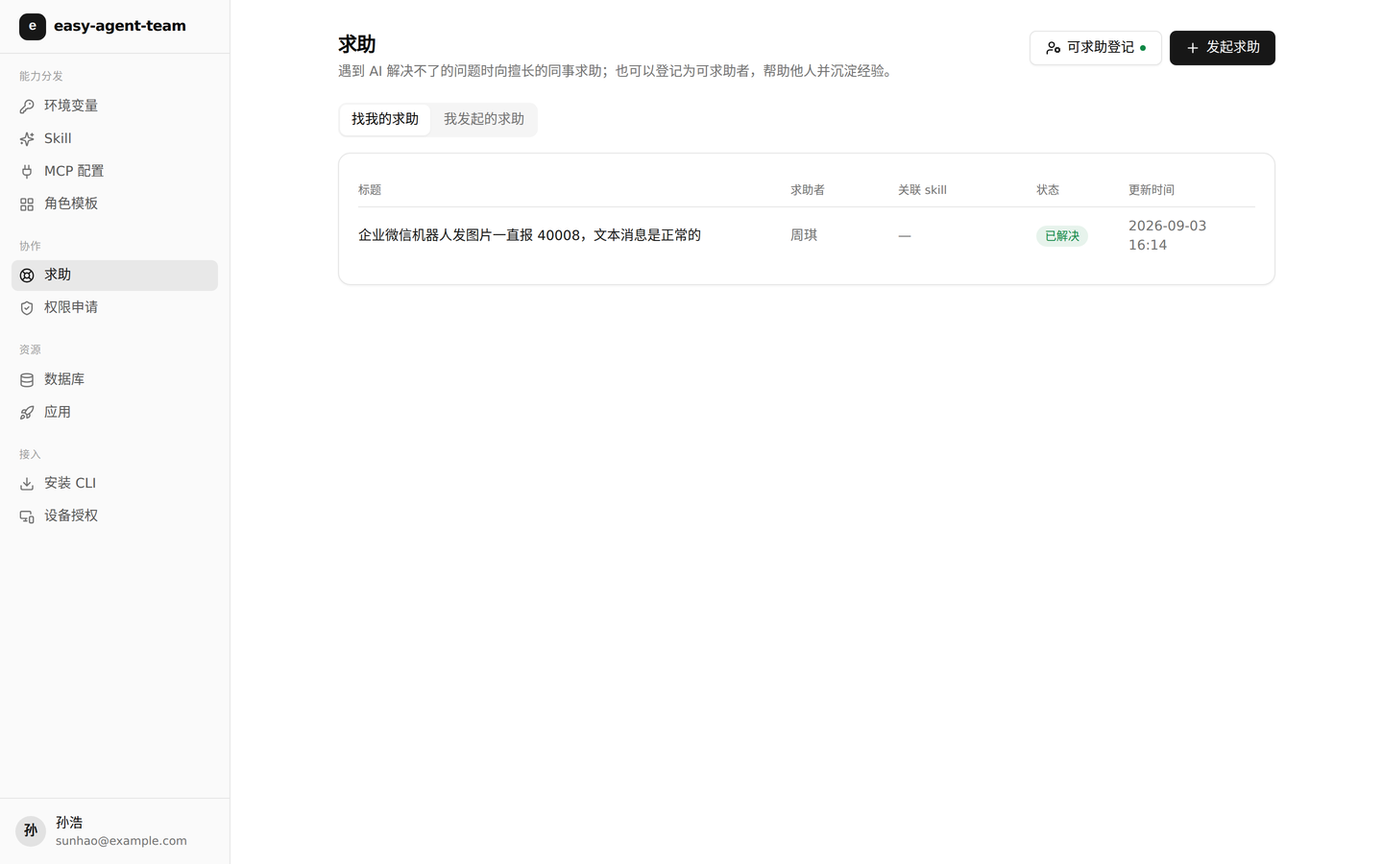
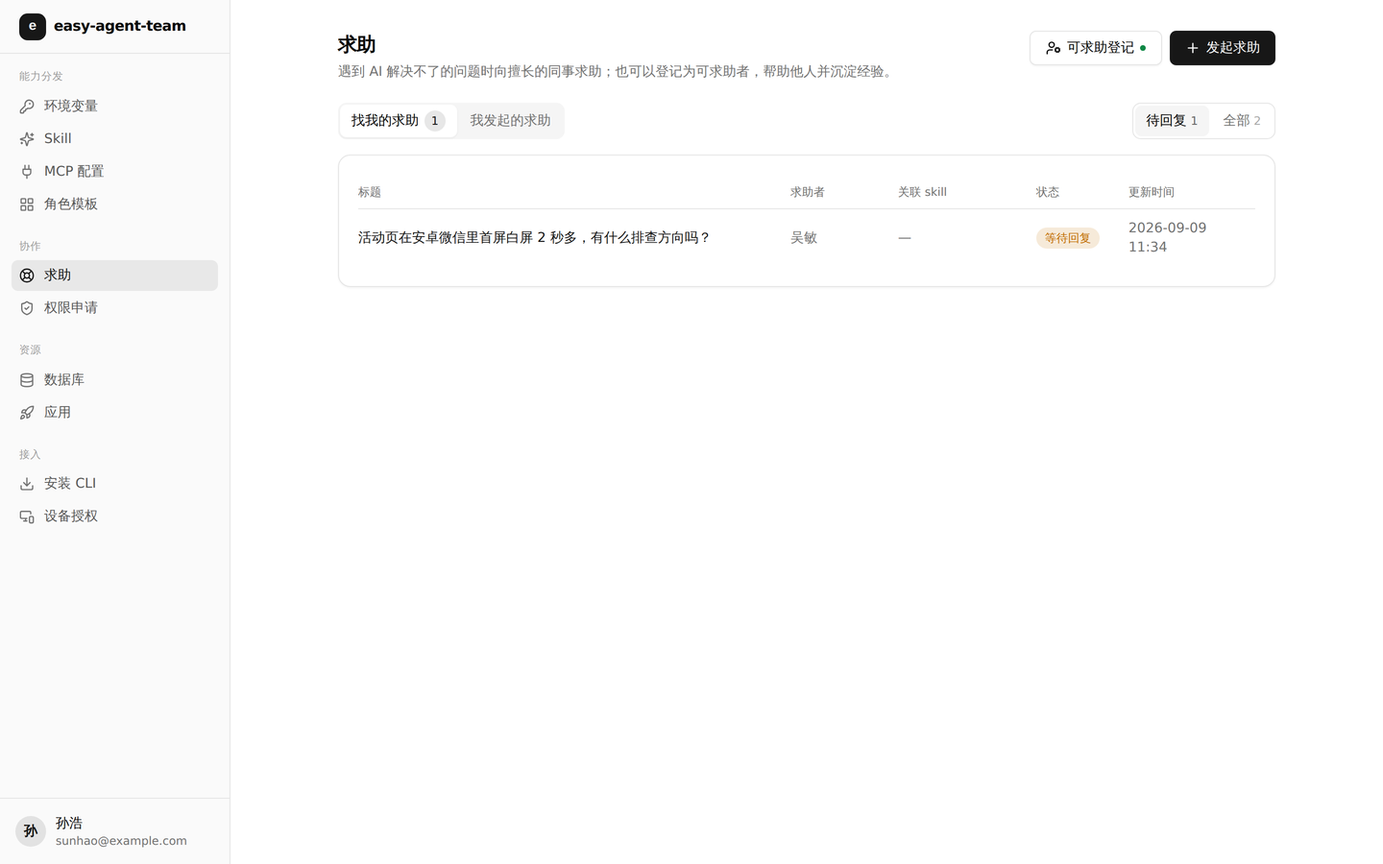
feat(web): 求助清单加「待回复 / 全部」筛选（决策 42）
求助页此前只有「找我的 / 我发起的」一个维度，已解决 / 已关闭的历史和当下
要处理的混在同一张表里。加一维正交的进展筛选，两个页签共用同一个值、默认
选「待回复」。

- 口径：「待回复」= 对话还等着某一方回应（open + answered）。刻意包含
  answered——「我发起的」页签角标数的就是它，只认 open 会出现「角标说有
  2 条、点进去一条也看不到」。
- 两个维度必须长得不一样（TabsList 与 Segmented 原本同一套实心轨道样式）：
  页签保持实心轨道 = 导航，筛选用新加的 Segmented variant="outline"
  描边轨道 = 筛选；桌面同一行分列左右，窄屏换行堆叠。
- 两组数字各司其职：页签角标 = 需要我出手的条数，分段小字 = 切过去有几条
  （按当前页签算，与决策 38 的 counts 同一口径）。
- 空状态分两种：全被筛掉时给「查看全部」的出口，真的一条没有才讲怎么开始。
- 页签与筛选都同步到 URL（?tab= / ?status=，等于默认值不写），本页
  useTabParam 换成 use-query-params。
- 纯前端过滤（两个清单接口本就一次取 100 条），不动服务端，不涉及
  CLI / MCP / 内置指南，版本号不动。
- 演示数据补一条「吴敏 → 孙浩」的待回复求助，capture-web 的两张详情图改挂
  ?status=all，help.png 重拍。

桌面 1440 / 移动 390 双视口 Playwright 走查：默认筛选、切筛选、切页签保持
筛选、深链还原、筛空的出口按钮，无横向溢出、无控制台报错。

Claude-Session: https://claude.ai/code/session_01SboHYSYLzE41bmtCDjEx4H

diff --git a/apps/web/src/pages/Help.tsx b/apps/web/src/pages/Help.tsx
@@ -11,6 +11,7 @@ import { Combobox } from '../components/combobox';
 import { Empty } from '../components/empty';
 import { Field } from '../components/form';
 import { PageHeader } from '../components/page-header';
+import { Segmented } from '../components/segmented';
 import { Badge } from '../components/ui/badge';
 import { Button } from '../components/ui/button';
 import { Card, CardContent } from '../components/ui/card';
@@ -22,7 +23,7 @@ import { Switch } from '../components/ui/switch';
 import { Table, TableBody, TableCell, TableHead, TableHeader, TableRow } from '../components/ui/table';
 import { Tabs, TabsContent, TabsList, TabsTrigger } from '../components/ui/tabs';
 import { formatDateTime } from '../lib/utils';
-import { useTabParam } from '../lib/use-tab-param';
+import { useQueryParams } from '../lib/use-query-params';
 
 export const HELP_STATUS_BADGE: Record<string, JSX.Element> = {
   open: <Badge variant="warning">等待回复</Badge>,
@@ -30,6 +31,15 @@ export const HELP_STATUS_BADGE: Record<string, JSX.Element> = {
   resolved: <Badge variant="success">已解决</Badge>,
   closed: <Badge variant="outline">已关闭</Badge>,
 };
+
+/**
+ * 状态筛选与页签（找我的 / 我发起的）是**两个正交的维度**：页签选方向，这里选进展。
+ * 「待回复」= 对话还等着某一方回应——`open` 等被求助者回复、`answered` 等求助者确认或追问；
+ * 与之相对的 `resolved` / `closed` 是不再需要任何人回应的终态。默认只看待回复的，
+ * 免得已经了结的历史把当下要处理的淹掉；两个页签共用同一个筛选值，切页签不重置。
+ */
+const PENDING_HINT = '还等着某一方回应的求助：等待回复 + 已回复但未确认解决';
+const isPending = (r: HelpRequestInfo) => r.status === 'open' || r.status === 'answered';
 
 type MyProfile =
   | { registered: false }
@@ -47,7 +57,8 @@ export function HelpPage() {
   const queryClient = useQueryClient();
   const [asking, setAsking] = useState(false);
   const [editingProfile, setEditingProfile] = useState(false);
-  const [tab, setTab] = useTabParam('inbox');
+  // 方向（页签）与进展（筛选）两个维度都同步到 URL；等于默认值的不写进去
+  const [{ tab, status }, setParams] = useQueryParams({ tab: 'inbox', status: 'pending' });
 
   const profile = useQuery({ queryKey: ['helper-me'], queryFn: () => api<MyProfile>('GET', '/api/helpers/me') });
   const targets = useQuery({ queryKey: ['help-targets'], queryFn: () => api<HelpTargets>('GET', '/api/helpers') });
@@ -83,13 +94,34 @@ export function HelpPage() {
     onError: (err) => toast.error(err instanceof ApiError ? err.message : '发起失败'),
   });
 
-  // tab 角标：找我的 = 等待我回复的数量；我发起的 = 有新回复待我确认的数量
+  // tab 角标 = 需要我出手的数量（找我的：等我回复；我发起的：有新回复待我确认），
+  // 与分段上的数量不是一回事——那个回答的是「切过去会有几条」，所以两者都留着。
   const inboxOpen = (inbox.data ?? []).filter((r) => r.status === 'open').length;
   const mineAnswered = (mine.data ?? []).filter((r) => r.status === 'answered').length;
 
-  function RequestTable({ rows, dir, loading, emptyText }: { rows: HelpRequestInfo[]; dir: 'in' | 'out'; loading: boolean; emptyText: React.ReactNode }) {
+  // 分段上的数量按**当前页签**算：切页签数字跟着变，切筛选数字不变
+  const activeRows = (tab === 'mine' ? mine : inbox).data;
+  const pendingCount = (activeRows ?? []).filter(isPending).length;
+
+  function RequestTable({ all, dir, loading, emptyText }: { all: HelpRequestInfo[]; dir: 'in' | 'out'; loading: boolean; emptyText: React.ReactNode }) {
+    const rows = status === 'pending' ? all.filter(isPending) : all;
     if (loading) return <TableSkeleton rows={2} />;
-    if (rows.length === 0) return <Empty text={emptyText} className="py-6" />;
+    if (rows.length === 0) {
+      // 全被筛掉和真的一条都没有是两回事：前者要给出口，后者才该讲怎么开始
+      return status === 'pending' && all.length > 0 ? (
+        <Empty
+          className="py-6"
+          text={`没有待回复的求助，${all.length} 条已了结的记录都在「全部」里。`}
+          action={
+            <Button variant="outline" size="sm" onClick={() => setParams({ status: 'all' })}>
+              查看全部
+            </Button>
+          }
+        />
+      ) : (
+        <Empty text={emptyText} className="py-6" />
+      );
+    }
     return (
       <Table>
         <TableHeader>
@@ -152,22 +184,52 @@ export function HelpPage() {
         }
       />
 
-      <Tabs value={tab} onValueChange={setTab}>
-        <TabsList>
-          <TabsTrigger value="inbox">
-            找我的求助
-            {inboxOpen > 0 && <Badge className="px-1.5">{inboxOpen}</Badge>}
-          </TabsTrigger>
-          <TabsTrigger value="mine">
-            我发起的求助
-            {mineAnswered > 0 && <Badge className="px-1.5">{mineAnswered}</Badge>}
-          </TabsTrigger>
-        </TabsList>
+      <Tabs value={tab} onValueChange={(v) => setParams({ tab: v })}>
+        {/* 两个维度并排一行：左边页签选方向（实心轨道 = 导航），右边分段选进展（描边轨道 = 筛选），
+            外观不同才不会被当成同一组开关；窄屏下换行，筛选仍紧挨着清单 */}
+        <div className="flex flex-col items-start gap-2 sm:flex-row sm:items-center sm:justify-between">
+          <TabsList aria-label="求助方向">
+            <TabsTrigger value="inbox">
+              找我的求助
+              {inboxOpen > 0 && <Badge className="px-1.5">{inboxOpen}</Badge>}
+            </TabsTrigger>
+            <TabsTrigger value="mine">
+              我发起的求助
+              {mineAnswered > 0 && <Badge className="px-1.5">{mineAnswered}</Badge>}
+            </TabsTrigger>
+          </TabsList>
+          <Segmented
+            variant="outline"
+            ariaLabel="按进展筛选"
+            value={status}
+            onChange={(v) => setParams({ status: v })}
+            options={[
+              {
+                value: 'pending',
+                label: (
+                  <>
+                    <span title={PENDING_HINT}>待回复</span>
+                    {activeRows && <span className="text-xs tabular-nums opacity-60">{pendingCount}</span>}
+                  </>
+                ),
+              },
+              {
+                value: 'all',
+                label: (
+                  <>
+                    全部
+                    {activeRows && <span className="text-xs tabular-nums opacity-60">{activeRows.length}</span>}
+                  </>
+                ),
+              },
+            ]}
+          />
+        </div>
         <TabsContent value="inbox" className="mt-4">
           <Card>
             <CardContent>
               <RequestTable
-                rows={inbox.data ?? []}
+                all={inbox.data ?? []}
                 dir="in"
                 loading={inbox.isLoading}
                 emptyText="暂无找你的求助。完善「可求助登记」的能力描述，同事的 AI 才找得到你。"
@@ -179,7 +241,7 @@ export function HelpPage() {
           <Card>
             <CardContent>
               <RequestTable
-                rows={mine.data ?? []}
+                all={mine.data ?? []}
                 dir="out"
                 loading={mine.isLoading}
                 emptyText="暂无。AI 也可以通过 MCP 的 create_help_request 替你发起。"

diff --git a/apps/web/src/components/segmented.tsx b/apps/web/src/components/segmented.tsx
@@ -1,22 +1,37 @@
 import * as React from 'react';
 import { cn } from '../lib/utils';
 
-/** 分段选择器（替代 antd Segmented），值支持任意可比较类型 */
+/**
+ * 分段选择器（替代 antd Segmented），值支持任意可比较类型。
+ *
+ * 两个外观：`solid` 是默认的实心轨道（灰底 + 白色滑块），与 TabsList 长得一样；
+ * `outline` 是描边轨道（透明底 + 灰色滑块），用于**与页签同处一行**的次级筛选——
+ * 两个维度各自一个控件时，长得一样会让人分不清哪个是导航、哪个是筛选。
+ */
 export function Segmented<T extends string | number | boolean>({
   value,
   onChange,
   options,
+  variant = 'solid',
+  ariaLabel,
   className,
 }: {
   value: T;
   onChange: (v: T) => void;
   options: Array<{ label: React.ReactNode; value: T }>;
+  variant?: 'solid' | 'outline';
+  ariaLabel?: string;
   className?: string;
 }) {
   return (
     <div
       role="radiogroup"
-      className={cn('inline-flex w-fit max-w-full flex-wrap items-center gap-0.5 rounded-lg bg-muted p-0.5', className)}
+      aria-label={ariaLabel}
+      className={cn(
+        'inline-flex w-fit max-w-full flex-wrap items-center gap-0.5 rounded-lg p-0.5',
+        variant === 'solid' ? 'bg-muted' : 'border',
+        className,
+      )}
     >
       {options.map((opt, i) => {
         const active = opt.value === value;
@@ -27,8 +42,12 @@ export function Segmented<T extends string | number | boolean>({
             role="radio"
             aria-checked={active}
             className={cn(
-              'rounded-md px-3 py-1.5 text-sm transition-colors outline-none focus-visible:ring-2 focus-visible:ring-ring/40 cursor-pointer',
-              active ? 'bg-card font-medium shadow-xs' : 'text-muted-foreground hover:text-foreground',
+              'inline-flex items-center gap-1 rounded-md px-3 py-1.5 text-sm transition-colors outline-none focus-visible:ring-2 focus-visible:ring-ring/40 cursor-pointer',
+              active
+                ? variant === 'solid'
+                  ? 'bg-card font-medium shadow-xs'
+                  : 'bg-muted font-medium'
+                : 'text-muted-foreground hover:text-foreground',
             )}
             onClick={() => onChange(opt.value)}
           >

diff --git a/CLAUDE.md b/CLAUDE.md
@@ -6,7 +6,7 @@
 
 easy-agent-team：面向团队的 AI 能力集中管理与分发平台（Skill / MCP 配置 / 环境变量 / 数据库账号 / 部署托管 / 人机求助与经验沉淀）。
 
-**当前状态：P0–P3 全部路线图完成并全链路验证**——P0：环境变量 + Skill 管理 + 认证；P1：求助系统 + 平台 AI 接入 + 经验沉淀；P2：角色模板 + MCP 配置分发 + 数据库账号分配（真实建库建号）；P3：部署托管（Dokploy 挂载、CLI 端密钥扫描含平台指纹匹配、部署门禁携带报告、状态按需刷新）。server 146 个 e2e 用例全过（含 mock Dokploy 与 mock WebSocket 日志端点、mock OpenAI、mock 飞书机器人验签、真实 PG 建库）。环境变量支持**非敏感明文存储**（决策 23：`secret` 标记只改存储与展示、**授权模型不变**——非敏感值存 `value_plain`、有读取权限者清单/控制台直接明文可见，无权限者仍需申请；读取不落审计、不进指纹清单；数据库分配凭证仅 `DB_PASSWORD` 敏感、整组默认仅授权申请人；数据库分配删除后不再出现在列表；控制台补齐环境编辑/删除与部署项目编辑/删除入口）。求助通知已改为**只支持飞书群自定义机器人** webhook（决策 16：加签密钥由用户粘贴、平台不再生成 HMAC 密钥；决策 17：消息升级为飞书卡片——含「查看请求」按钮与「发送给 Agent」代码块，卡片构建在 `packages/shared/src/feishu-card.ts`、`scripts/test-feishu-card.mjs` 可实测；helper 登记含接收求助/接收回复两开关、能力描述可空），CLI 12 命令组 + MCP 19 工具 + 控制台 11 页面均做过真实冒烟。内置「平台使用指南」Skill（`eat-platform-guide`，决策 11：内容在 `packages/shared/src/platform-guide.ts`，改内容须递增 `PLATFORM_GUIDE_VERSION`；sync-bundle 对所有用户注入首位，slug 保留）与 `eat sync` 新落地布局（决策 12：实际文件 `~/.agents/skills/` + 逐个软链 `~/.claude/skills/`，旧目录自动迁移；决策 14：安装范围参数，默认/`--global` 全局、`--project` 落当前项目 `./.agents/skills/` + 相对软链 `./.claude/skills/`、与 `--dir` 三者互斥）已实现，并用真实设备码登录 + sync 冒烟验证过（安装范围参数用 stub 平台端点做过全流程冒烟）。用户管理（建号/改角色/禁用/重置密码，管理员改密已完成；决策 19：开放注册——管理员开关 + 邮箱后缀限制，注册即登录）与 CLI 平台自托管分发（`/install.sh`+`/install/eat.js`+`/install/AGENT.md`+`/install/MCP.md`，不发 npm；控制台 `/install` 安装页含给 Agent 的一键复制指令，文案单一来源在 `packages/shared/src/install.ts`；决策 20：Agent 安装流程只装 CLI 不提 MCP，MCP 配置独立板块、面向无 shell 环境客户端）已落地——安装脚本在容器内真实执行验证过。**Windows 全链路已兼容**（决策 24：新增 `GET /install.ps1` + shim `eat.cmd`/`eat`（**决策 29：刻意不生成 `eat.ps1`**——PowerShell 里 `.ps1` 优先级高于 `.cmd`，撞上默认 `ExecutionPolicy=Restricted` 会让 `eat` 直接报「禁止运行脚本」，就是 npm.ps1 那个著名报错；不落 `.ps1` 则自然回落到不受执行策略约束的 `eat.cmd`，用户零操作）、PATH 写用户级环境变量不用 setx、两个安装脚本都把逻辑包进 `main()`/`Install-EatCli` 防管道截断；`eat sync` 在 Windows 上把 `.claude/skills` 的软链换成复制实文件；AGENT.md 给双平台命令并要求 Agent 先判断系统、安装页按 UA 嗅探分页签、MCP 指引补 `cmd /c eat mcp`；凭证文案统一为 `~/.eat/credentials.json`）——install.ps1 用容器内下载的 pwsh 7.4 真实执行+语法校验过，Windows 复制路径用伪装 `process.platform=win32` 跑通首次复制/软链迁移/版本刷新/清理全流程，安装页双 UA 双视口 Playwright 验证过。**建项目支持从 Dokploy 搜索选应用**（决策 27：`GET /api/dokploy/applications` 展平 `project.all`、防御式解析、与建项目同权限；应用可能挂在 `project.applications`（老版本）或 `project.environments[].applications`（新版本，真机实测），两种都认；控制台弹窗里 Popover + cmdk 按项目分组，搜索同时匹配应用名/容器名/id，Dokploy 停用时就地降级为手填；**2026-09-02 用容器内自建的 Dokploy v0.30.4 复验：该版本 `project.all` 只回 `applicationId`/`name`/`applicationStatus`，不含 `appName` 与 `description`**，防御式回落让清单照常可用，但「按容器名搜」在这个版本上等于失效，详见决策 27）。**部署失败能在平台里看到真实报错、并新增构建/运行日志命令**（决策 28：状态改以 Dokploy 构建记录为准并懒绑定到 `deployment.dokploy_deployment_id`，失败时把构建日志末尾 12 行写进 `error`；新增 `GET /api/projects/:slug/build-logs`（REST）与 `/run-logs`（**Dokploy 只有 WebSocket 一条路**，平台侧收敛成带 `tail=N` 的一次性读取，为此 server 引入 `ws`）；日志权限收紧到项目成员并落审计；CLI 把 `projects`/`deploy-status`/`deploy-list` 收进 `eat project` 名词组、新增 `build-logs`/`run-logs`，`eat deploy` 保持顶层，旧命令曾留隐藏别名，**决策 30 已直接删除**（不背兼容包袱：不需要兼容旧的 CLI 调用方式，旧客户端 `eat self-update` 即可更新）；MCP 补 `get_build_logs`/`get_run_logs`——此前文档与内置指南宣称的 `get_deploy_logs` 从未实现过。**已对容器内自建的 Dokploy v0.30.4 真机全链路验证**：触发部署→绑定构建记录→构建失败时 `eat project status` 直接打印 Docker 拉镜像报错→`build-logs`/`run-logs` 读到真实日志，控制台弹窗 Playwright 桌面/移动双视口验证过）。**部署记录已改为以 Dokploy 为唯一事实源**（决策 30：`deployment` 表删掉 `status`/`error`，只存业务元数据——谁触发的、带了什么检查报告；触发时把 `eat:<元数据id>` 写进 Dokploy 构建记录的 `description` 做精确认领（`application.deploy` 的 `title`/`description` **v0.25.0 起支持**，更老的版本静默丢弃、自动降级为按时间推断并标 `inferred`）；**Dokploy 每个应用只保留最近 10 条构建记录**（`removeLastTenDeployments` 硬编码不可配、连日志一起删），所以默认视图就是它还留着的那些、`--all` 才从平台元数据看完整历史（被清理的显示 `archived`）；**在 Dokploy 侧直接触发的部署也会列出来并标「未经平台密钥扫描」**，绕过门禁从此可见；排队中的部署读 `deployment.queueList`。两条踩过坑的铁律：**已认领过的元数据既不参与时间推断、也不因「刚触发不久」退回 queued**，否则会把别人在 Dokploy 侧点的部署冒认成平台部署。API 破坏性变更：`GET /api/deployments/:id` 删除，改项目内 `GET /api/projects/:slug/deployments/:id`）。**部署托管的实体已从「项目」改为「应用」（决策 31，2026-09-03）**：与 Dokploy 的 application 一一对应；成员自助创建（Web / `eat app create` / MCP `create_app`）——填 Git 地址与构建方式，服务端按 `application.create` → `saveGitProvider`（绑管理员配置的 SSH key）→ `saveBuildType` 三步走、任一步失败即删掉刚建的 application 回滚；构建方式只开放 `dockerfile`（Dockerfile 路径 + 构建上下文）与 `static`（发布目录 + SPA；**不跑构建命令**，仓库里需直接有产物）；管理员在「系统设置 → Dokploy」选自助建应用的落点（Dokploy 项目 / 环境 / SSH key，从 Dokploy 现拉下拉清单），用户侧不再感知 Dokploy 的项目概念；管理员仍可挂载既有 application（`POST /api/apps/mount`，`managed=false`，构建配置归 Dokploy、删除只解绑）。**部署授权**：成员自建的应用首次部署被拒（`DEPLOY_NOT_APPROVED`）并留痕，管理员在控制台授权一次后永久有效。**应用 env**：`eat app env pull|push [--build]` / MCP `get_app_env`/`set_app_env` / 控制台详情页直接读写 Dokploy 上的运行时 env 与构建时 buildArgs，推送整体覆盖、只回 key 级差异（解析在 `packages/shared/src/dotenv.ts`）。控制台应用详情页有「部署」按钮：不做本地扫描，请求显式 `source=console`，记录标「控制台 ⚠ 未做密钥扫描」。**不需要兼容旧的 CLI 调用方式（用户 `eat self-update` 即可更新）、数据库存量数据原地搬迁**：`/api/projects`→`/api/apps`、`eat project`→`eat app`、`list_projects`→`list_apps`（各工具 `project` 参数改 `app`）、表 `project`/`project_member`→`app`/`app_member`；迁移 `0010_app_entity` 把 `project`→`app`（保留 id）、`project_member`→`app_member`、`deployment.project_id`→`app_id` 搬完再删旧表（平台已在线上使用，不能删数据），存量项目按「管理员挂载的既有应用」处理（`managed=false`、`build_type=NULL`、`deploy_approved=true`）；`eat sync --project` 指本地代码目录，不动。server 模块拆成 `DokploySettingsService`（接入配置 + client 工厂）/ `AppsService`（应用 CRUD、授权、env）/ `DeployService`（部署记录、日志、指纹），路由分 `apps.controller.ts` 与 `deploy.controller.ts`。CLI 升 0.5.0、平台指南升 8。**已对容器内自建的 Dokploy v0.30.5 真机全链路验证**（自助建两种应用 → 授权门禁 → `eat deploy` 构建成功起容器 → env 推拉 → 控制台双视口冒烟）。**v0.30.5 的坑**：Git 来源的构建一结束就把构建记录 title/description 覆盖成提交信息，`eat:<id>` 认领标记只在排队/构建期间存在——`deployment.claim` 列记下首次认领的方式，靠回写 id 再认时沿用，别把精确认过的显示成「按时间推断」。**建应用时自动分配域名（决策 32）**：管理员在「系统设置 → Dokploy」配 `domain_suffix`（标准化：去协议 / `*.` / 大小写，只认 RFC 1123 主机名）+ `domain_https`，成员建应用时第四步 `domain.create` 绑 `<slug>.<后缀>`（请求体最小集对 v0.30.5 真机验证；失败同样整体回滚），`app` 表记 `domain` / `domain_https` / `dokploy_domain_id`；**域名流量转发到容器端口**——`app.port` 由 dockerfile 应用的创建者声明（默认 3000，`--port` / MCP `port` / 控制台字段），static 固定 80，端口变化时 `domain.update` 回写（它的 `host` 必填）；配了后缀时 slug 必须能当 DNS label（不以连字符结尾、≤63）；`AppInfo` 加 `port` / `domain` / `url`。只影响新建应用，存量与挂载的不动。CLI 升 0.5.1、指南升 9、迁移 `0011_app_domain`。**Dokploy 不出现在面向 AI 的输出里（决策 33）**：CLI 帮助 / 输出、MCP 工具描述 / 返回、内置指南、服务端透传的报错一律说「部署后台」或直接说事，CLI 不打印 `dokployApplicationId`、MCP 返回前剥掉它；部署来源枚举改 `platform | external`，错误码改 `DEPLOY_BACKEND_UNAVAILABLE` / `DEPLOY_BACKEND_UNCONFIGURED`；控制台管理员板块标题改「部署后台接入（Dokploy）」，Dokploy 这个词只留在那里和人看的文档里。CLI 升 0.5.2、指南升 10。**`eat skill export <slug>` 可把平台上任一可见 skill（含未订阅的、含内置指南）下载成普通目录**：复用既有的 `GET /api/skills/:slug`、不动服务端；与 sync 落地的区别是不写 `.eat-meta.json`（导出的是可自由编辑再 push 的工作副本，别让 sync 接管），目标目录非空必须 `--force` 且只覆盖同名文件、不清空目录。CLI 升 0.5.3、指南升 11。**推送不再自动订阅（决策 34）**：`SkillsService.push()`（CLI push / 网页创建 / 经验沉淀共用）不再把推送者订阅上去——旧行为会让「退订自己的 skill → 推个新版本 → 又被订回来」，退订意愿留不住；经验沉淀改为按 `grantedToRequester` / `grantedToHelper` 各自显式插订阅、且不再删未勾选那方的既有订阅；可见性与编辑权不受影响（`canSee`/`canManage` 按 ownerId 判），变的只是进不进 `eat sync` 范围；CLI push 后曾按返回的 `subscribed` 提示订阅命令，**决策 40 已去掉这句提示**（刻意不订阅自己 skill 的作者每推一次被劝一次，属噪音；规则留在内置指南速查表里），服务端返回的 `subscribed` 字段不动；CLI 升 0.5.9、指南内容未变。顺带修掉更新检测用例里的空串自比（指纹用例打的是 @Public 的 `/api/health`，per-user 指纹在无 authUser 时根本不下发）。CLI 升 0.5.4、指南升 12。**CLI / Skill 更新提示已就位**（决策 26：检测走响应头搭车——服务端对带 `x-eat-client` 的请求回 `x-eat-cli-version` + `x-eat-skill-version`，零额外请求；Skill 指纹是 per-user 的 sorted(`slug@version`) FNV-1a 哈希，覆盖出新版本/新增订阅/退订三类变化；提示只走 stderr、不做 TTY 判断、按版本去重、显式声明不影响本次结果；新增 `eat self-update` 与 `GET /install/version.json`；MCP 侧改挂工具返回的独立内容块；`EAT_NO_UPDATE_NOTIFIER=1` 可关。CLI 版本唯一事实源在 `packages/shared/src/version.ts`，package.json 由单测断言同步；平台指南 Skill 版本升到 5）。**控制台 UI 已从 Ant Design 全量迁移为 Tailwind CSS v4 + shadcn 风格组件**（决策 21：组件源码内置 `apps/web/src/components/ui/`，表单栈 react-hook-form、消息 sonner、搜索选择 cmdk，移除 antd/dayjs；桌面左侧分组侧边栏 + 移动端抽屉导航，表格按断点隐藏次要列做手机适配；全部 16 页面经 Playwright 桌面/移动双视口截图与交互冒烟验证。注意：项目是 React 18，ui 组件必须用 forwardRef，不能学 shadcn 官方 React 19 的 ref-as-prop 写法。决策 22：多板块页面——求助/数据库/权限申请——改页内 tabs 布局，`components/ui/tabs.tsx` + `lib/use-tab-param.ts` 同步 URL `?tab=`；低频配置收进页头按钮弹窗——求助页「可求助登记」、用户页「注册设置」，按钮带状态圆点）。**README 里有产品截图与 CLI 录屏了（决策 35）**：`scripts/demo/` 下是可复现的演示数据与截图 / 录屏工具，产物在 `docs/assets/screenshots/` 与 `docs/assets/demos/`，全集页 `docs/screenshots.md`，重跑步骤与坑见 `scripts/demo/README.md`（演示 Git 服务必须 smart HTTP、基础镜像先 `docker pull`、录屏有先后依赖、截图放最后拍）。原则是画面里的东西必须是真的：数据走平台自己的 API 写入、命令真跑一遍录。录制时顺手修了两个 CLI 问题（升 0.5.5）：`eat env pull <环境>` 在一个变量都没权限时会什么都不打印（改为回落到清单给出申请引导）、密钥扫描的候选 token 正则把 `=` 收进字符集导致 `KEY=<密钥>` 这种最常见的泄漏形式匹配不到指纹（`=` 改为只当结尾 padding）。**SKILL.md 的 frontmatter 现在按 YAML 子集解析（决策 36）**：`description: >-` 这类块标量写法此前被那版一行一匹配的正则取成 `>-` 本身，描述等于废了；解析器提到 `packages/shared/src/frontmatter.ts` 三端共用（块标量 `>`/`|` 含截断与缩进数字、单双引号跨行标量、纯标量续行、CRLF/BOM/整行注释/`...`，嵌套结构的值跳过、行内 `#` 不当注释），服务端 `SkillsService.push()` 在描述为空或只是块标量指示符时回退到正文 frontmatter（旧 CLI 推的 `>-` 推一次新版本就自动修好），控制台创建 Skill 支持粘贴整份 SKILL.md 自动回填空着的字段，经验沉淀合成 frontmatter 改用 `toYamlScalar()` 写值；`|` 保留块解析出的**多行描述**在展示端也要处理——控制台详情页的触发描述用 `whitespace-pre-line`（列表页本就是 truncate 单行，不用改）、编辑框放到 4 行，CLI 的一行一条清单（`skill list` / `ask targets`）用 `oneLine()` 折行并按显示列宽（汉字算两列）截断到 200 列、`eat skill list --full` 不截断；**存量数据靠 `pnpm db:migrate` 里的幂等订正修**（`apps/server/src/db/repair-descriptions.ts`：描述为空或只是块标量指示符的行，按当前版本 SKILL.md 正文重新解析，不动 `updated_at`）——服务端回退只在 push 时生效，线上先有的 skill 不重新部署就会一直显示 `>-`。CLI 升 0.5.7。**Skill 有捆绑模式、清单可筛选分页、订阅者可管理（决策 37）**：管理员把 skill 设为**捆绑**（`skill.bundled`，迁移 `0012_skill_bundled`）后，它对所有成员恒为已订阅、退订直接回 400 `SKILL_BUNDLED`、`eat sync` 总会带上（`relation: 'bundled'`）；**管理员自己是例外**，仍按自己的订阅记录算——这条是需求的核心，改动有效集合时别把管理员也算进去。捆绑**要求团队可见**，开捆绑与改私有两个方向都按「结果状态」校验；只有管理员能改这个开关（作者对自己的 skill 也不行）。`GET /api/skills` **破坏性地**改成分页信封 `{items,total,page,pageSize}` + `q`/`scope`/`kind` 筛选（pageSize 上限 1000，照决策 30 不留兼容层，控制台与 CLI 同步改；`Templates.tsx` 的选择器用 `pageSize=1000` 取全量）；控制台每页 20 条、可切 50/100、页码+跳页且筛选与页码同步到 URL（`lib/use-query-params.ts` + `components/pagination.tsx`），CLI 按 gh 的做法默认 100 条、`--limit` 最多 1000、**不翻页**（AI 拿到半页会当成全部下结论），配 `--search`/`--scope`/`--kind`。订阅**人数**（口径 = 有效同步人数，只算启用中的用户，人数与明细共用 `effectiveSubscribers()`）全员可见；**名单与代订阅仅管理员**（`GET/POST /api/skills/:slug/subscribers`、`DELETE …/subscribers/:userId`），代订阅拒私有 skill 与禁用用户、捆绑 skill 拒单独增减。UI 按频次分层：列表页只放搜索/筛选/订阅，捆绑开关收进详情页「编辑元信息」弹窗，订阅者名单与「添加订阅者」收在详情页下方的管理员卡片。顺带修掉「模板派生的 skill 在清单显示已订阅、详情页却显示未订阅」和窄屏下第一列 `truncate` 把表撑出横向滚动两个问题。CLI 升 0.5.8、指南升 13。**Skill 列表页已重设计为「双行清单」（决策 38）**：名称 + 触发描述排成阅读流（描述两行封顶、多行描述按原换行）、slug 退为等宽小字、元信息压成一行（作者是自己时显示「我」、相对更新时间）、订阅按钮按状态分级（未订阅描边 / 已订阅灰底绿勾悬停变「退订」/ 捆绑只读锁 / 进行中加载态）；范围筛选改成带数量的分段切换，`GET /api/skills` 信封加 `counts`（在关键词与 kind 收窄后的集合上数、scope 自身不参与）；桌面 / 移动双视口 Playwright 走查过，`skills.png` / `mobile-nav.png` 重拍。不涉及 CLI 与指南，版本号不动。**数据库分配有详情页、凭证环境与分配记录互相回指、环境清单分页筛选（决策 39）**：`/db/:id` 详情页（`GET /api/db/assignments/:id`，申请人或管理员），管理员操作与清单页共用 `pages/db-shared.tsx`；`EnvironmentInfo` 加 `source` / `dbAssignment` / `ownerEmail`（关系一直在 `db_assignment.environment_id` 上，反查暴露即可，无迁移），环境详情页头下有「查看分配」、分配详情页有「打开凭证环境」+ `eat env pull` 命令；**凭证变量默认对未授权成员完全隐藏**（`visible_without_permission=false`，存量不动）；`GET /api/envs` **破坏性地**改成分页信封 `{items,total,page,pageSize,counts}` + `q`/`source`/`page`/`pageSize`（CLI / MCP 只用 `/api/catalog`，不受影响），新增 `GET /api/envs/:slug`；控制台环境清单照 Skill 清单重做为双行清单 + 「常规 / 数据库」页签（默认常规、带数量）+ 搜索 + 分页；**更新变量时 `value` 可缺省** = 保持当前值、版本不递增（翻转敏感标记时把现值搬到另一列；新增缺省值仍 400）——此前给敏感变量改可见性会因为值必填而改不了；**Owner / 管理员可在控制台点眼睛查看敏感值**（走正式拉取接口、照常落 `secret.read` 审计）；环境详情页「读取授权」上方加 Owner 卡片（姓名 / 邮箱 / 三条能力 / 按身份补一句话）。不涉及 CLI 与指南，版本号不动。**求助对话可以删掉自己写的那条回复（决策 41）**：`DELETE /api/help-requests/:id/messages/:messageId`，回复者本人或管理员可删（管理员本就能删整条求助，这里只是粒度更细；求助已沉淀为经验时整条删不掉、单条仍可删）；删完按剩余消息回推状态——最后一条来自被求助者→`answered`，否则→`open`（一条不剩也回 `open`），`resolved`/`closed` 是终态不回退；**只在控制台开口子，CLI / MCP 不加命令**（不给 AI 一个悄悄抹掉自己发言的工具，AI 侧误发仍是 `delete_help_request` 删整条）；不推 webhook、落审计 `help.reply_deleted`（只记 messageId/senderId 不抄正文），乱写的 messageId 用 `isFullId()` 挡成 404 而不是 500。不涉及 CLI 与指南，版本号不动。剩余待办：真实联调（**Dokploy 已可在云端会话内用 `scripts/dev-dokploy.sh` 自建真机实例验证，`DokployClient` 的连通性/清单/状态/部署四条路径与错误路径都对着 v0.30.4 跑通**；只剩 AI 三参数待用户提供）、正式部署（Dockerfile 与 docs/deployment.md 已就绪，镜像布局在容器内做过等效验证——pnpm deploy --legacy 产物 + 迁移/种子编译入口 + SPA 托管 + CLI 产物 `/app/cli/dist` 全通，真实 docker build 需在有 Docker 的机器上做）、MySQL 自动建库（暂缓）。
+**当前状态：P0–P3 全部路线图完成并全链路验证**——P0：环境变量 + Skill 管理 + 认证；P1：求助系统 + 平台 AI 接入 + 经验沉淀；P2：角色模板 + MCP 配置分发 + 数据库账号分配（真实建库建号）；P3：部署托管（Dokploy 挂载、CLI 端密钥扫描含平台指纹匹配、部署门禁携带报告、状态按需刷新）。server 146 个 e2e 用例全过（含 mock Dokploy 与 mock WebSocket 日志端点、mock OpenAI、mock 飞书机器人验签、真实 PG 建库）。环境变量支持**非敏感明文存储**（决策 23：`secret` 标记只改存储与展示、**授权模型不变**——非敏感值存 `value_plain`、有读取权限者清单/控制台直接明文可见，无权限者仍需申请；读取不落审计、不进指纹清单；数据库分配凭证仅 `DB_PASSWORD` 敏感、整组默认仅授权申请人；数据库分配删除后不再出现在列表；控制台补齐环境编辑/删除与部署项目编辑/删除入口）。求助通知已改为**只支持飞书群自定义机器人** webhook（决策 16：加签密钥由用户粘贴、平台不再生成 HMAC 密钥；决策 17：消息升级为飞书卡片——含「查看请求」按钮与「发送给 Agent」代码块，卡片构建在 `packages/shared/src/feishu-card.ts`、`scripts/test-feishu-card.mjs` 可实测；helper 登记含接收求助/接收回复两开关、能力描述可空），CLI 12 命令组 + MCP 19 工具 + 控制台 11 页面均做过真实冒烟。内置「平台使用指南」Skill（`eat-platform-guide`，决策 11：内容在 `packages/shared/src/platform-guide.ts`，改内容须递增 `PLATFORM_GUIDE_VERSION`；sync-bundle 对所有用户注入首位，slug 保留）与 `eat sync` 新落地布局（决策 12：实际文件 `~/.agents/skills/` + 逐个软链 `~/.claude/skills/`，旧目录自动迁移；决策 14：安装范围参数，默认/`--global` 全局、`--project` 落当前项目 `./.agents/skills/` + 相对软链 `./.claude/skills/`、与 `--dir` 三者互斥）已实现，并用真实设备码登录 + sync 冒烟验证过（安装范围参数用 stub 平台端点做过全流程冒烟）。用户管理（建号/改角色/禁用/重置密码，管理员改密已完成；决策 19：开放注册——管理员开关 + 邮箱后缀限制，注册即登录）与 CLI 平台自托管分发（`/install.sh`+`/install/eat.js`+`/install/AGENT.md`+`/install/MCP.md`，不发 npm；控制台 `/install` 安装页含给 Agent 的一键复制指令，文案单一来源在 `packages/shared/src/install.ts`；决策 20：Agent 安装流程只装 CLI 不提 MCP，MCP 配置独立板块、面向无 shell 环境客户端）已落地——安装脚本在容器内真实执行验证过。**Windows 全链路已兼容**（决策 24：新增 `GET /install.ps1` + shim `eat.cmd`/`eat`（**决策 29：刻意不生成 `eat.ps1`**——PowerShell 里 `.ps1` 优先级高于 `.cmd`，撞上默认 `ExecutionPolicy=Restricted` 会让 `eat` 直接报「禁止运行脚本」，就是 npm.ps1 那个著名报错；不落 `.ps1` 则自然回落到不受执行策略约束的 `eat.cmd`，用户零操作）、PATH 写用户级环境变量不用 setx、两个安装脚本都把逻辑包进 `main()`/`Install-EatCli` 防管道截断；`eat sync` 在 Windows 上把 `.claude/skills` 的软链换成复制实文件；AGENT.md 给双平台命令并要求 Agent 先判断系统、安装页按 UA 嗅探分页签、MCP 指引补 `cmd /c eat mcp`；凭证文案统一为 `~/.eat/credentials.json`）——install.ps1 用容器内下载的 pwsh 7.4 真实执行+语法校验过，Windows 复制路径用伪装 `process.platform=win32` 跑通首次复制/软链迁移/版本刷新/清理全流程，安装页双 UA 双视口 Playwright 验证过。**建项目支持从 Dokploy 搜索选应用**（决策 27：`GET /api/dokploy/applications` 展平 `project.all`、防御式解析、与建项目同权限；应用可能挂在 `project.applications`（老版本）或 `project.environments[].applications`（新版本，真机实测），两种都认；控制台弹窗里 Popover + cmdk 按项目分组，搜索同时匹配应用名/容器名/id，Dokploy 停用时就地降级为手填；**2026-09-02 用容器内自建的 Dokploy v0.30.4 复验：该版本 `project.all` 只回 `applicationId`/`name`/`applicationStatus`，不含 `appName` 与 `description`**，防御式回落让清单照常可用，但「按容器名搜」在这个版本上等于失效，详见决策 27）。**部署失败能在平台里看到真实报错、并新增构建/运行日志命令**（决策 28：状态改以 Dokploy 构建记录为准并懒绑定到 `deployment.dokploy_deployment_id`，失败时把构建日志末尾 12 行写进 `error`；新增 `GET /api/projects/:slug/build-logs`（REST）与 `/run-logs`（**Dokploy 只有 WebSocket 一条路**，平台侧收敛成带 `tail=N` 的一次性读取，为此 server 引入 `ws`）；日志权限收紧到项目成员并落审计；CLI 把 `projects`/`deploy-status`/`deploy-list` 收进 `eat project` 名词组、新增 `build-logs`/`run-logs`，`eat deploy` 保持顶层，旧命令曾留隐藏别名，**决策 30 已直接删除**（不背兼容包袱：不需要兼容旧的 CLI 调用方式，旧客户端 `eat self-update` 即可更新）；MCP 补 `get_build_logs`/`get_run_logs`——此前文档与内置指南宣称的 `get_deploy_logs` 从未实现过。**已对容器内自建的 Dokploy v0.30.4 真机全链路验证**：触发部署→绑定构建记录→构建失败时 `eat project status` 直接打印 Docker 拉镜像报错→`build-logs`/`run-logs` 读到真实日志，控制台弹窗 Playwright 桌面/移动双视口验证过）。**部署记录已改为以 Dokploy 为唯一事实源**（决策 30：`deployment` 表删掉 `status`/`error`，只存业务元数据——谁触发的、带了什么检查报告；触发时把 `eat:<元数据id>` 写进 Dokploy 构建记录的 `description` 做精确认领（`application.deploy` 的 `title`/`description` **v0.25.0 起支持**，更老的版本静默丢弃、自动降级为按时间推断并标 `inferred`）；**Dokploy 每个应用只保留最近 10 条构建记录**（`removeLastTenDeployments` 硬编码不可配、连日志一起删），所以默认视图就是它还留着的那些、`--all` 才从平台元数据看完整历史（被清理的显示 `archived`）；**在 Dokploy 侧直接触发的部署也会列出来并标「未经平台密钥扫描」**，绕过门禁从此可见；排队中的部署读 `deployment.queueList`。两条踩过坑的铁律：**已认领过的元数据既不参与时间推断、也不因「刚触发不久」退回 queued**，否则会把别人在 Dokploy 侧点的部署冒认成平台部署。API 破坏性变更：`GET /api/deployments/:id` 删除，改项目内 `GET /api/projects/:slug/deployments/:id`）。**部署托管的实体已从「项目」改为「应用」（决策 31，2026-09-03）**：与 Dokploy 的 application 一一对应；成员自助创建（Web / `eat app create` / MCP `create_app`）——填 Git 地址与构建方式，服务端按 `application.create` → `saveGitProvider`（绑管理员配置的 SSH key）→ `saveBuildType` 三步走、任一步失败即删掉刚建的 application 回滚；构建方式只开放 `dockerfile`（Dockerfile 路径 + 构建上下文）与 `static`（发布目录 + SPA；**不跑构建命令**，仓库里需直接有产物）；管理员在「系统设置 → Dokploy」选自助建应用的落点（Dokploy 项目 / 环境 / SSH key，从 Dokploy 现拉下拉清单），用户侧不再感知 Dokploy 的项目概念；管理员仍可挂载既有 application（`POST /api/apps/mount`，`managed=false`，构建配置归 Dokploy、删除只解绑）。**部署授权**：成员自建的应用首次部署被拒（`DEPLOY_NOT_APPROVED`）并留痕，管理员在控制台授权一次后永久有效。**应用 env**：`eat app env pull|push [--build]` / MCP `get_app_env`/`set_app_env` / 控制台详情页直接读写 Dokploy 上的运行时 env 与构建时 buildArgs，推送整体覆盖、只回 key 级差异（解析在 `packages/shared/src/dotenv.ts`）。控制台应用详情页有「部署」按钮：不做本地扫描，请求显式 `source=console`，记录标「控制台 ⚠ 未做密钥扫描」。**不需要兼容旧的 CLI 调用方式（用户 `eat self-update` 即可更新）、数据库存量数据原地搬迁**：`/api/projects`→`/api/apps`、`eat project`→`eat app`、`list_projects`→`list_apps`（各工具 `project` 参数改 `app`）、表 `project`/`project_member`→`app`/`app_member`；迁移 `0010_app_entity` 把 `project`→`app`（保留 id）、`project_member`→`app_member`、`deployment.project_id`→`app_id` 搬完再删旧表（平台已在线上使用，不能删数据），存量项目按「管理员挂载的既有应用」处理（`managed=false`、`build_type=NULL`、`deploy_approved=true`）；`eat sync --project` 指本地代码目录，不动。server 模块拆成 `DokploySettingsService`（接入配置 + client 工厂）/ `AppsService`（应用 CRUD、授权、env）/ `DeployService`（部署记录、日志、指纹），路由分 `apps.controller.ts` 与 `deploy.controller.ts`。CLI 升 0.5.0、平台指南升 8。**已对容器内自建的 Dokploy v0.30.5 真机全链路验证**（自助建两种应用 → 授权门禁 → `eat deploy` 构建成功起容器 → env 推拉 → 控制台双视口冒烟）。**v0.30.5 的坑**：Git 来源的构建一结束就把构建记录 title/description 覆盖成提交信息，`eat:<id>` 认领标记只在排队/构建期间存在——`deployment.claim` 列记下首次认领的方式，靠回写 id 再认时沿用，别把精确认过的显示成「按时间推断」。**建应用时自动分配域名（决策 32）**：管理员在「系统设置 → Dokploy」配 `domain_suffix`（标准化：去协议 / `*.` / 大小写，只认 RFC 1123 主机名）+ `domain_https`，成员建应用时第四步 `domain.create` 绑 `<slug>.<后缀>`（请求体最小集对 v0.30.5 真机验证；失败同样整体回滚），`app` 表记 `domain` / `domain_https` / `dokploy_domain_id`；**域名流量转发到容器端口**——`app.port` 由 dockerfile 应用的创建者声明（默认 3000，`--port` / MCP `port` / 控制台字段），static 固定 80，端口变化时 `domain.update` 回写（它的 `host` 必填）；配了后缀时 slug 必须能当 DNS label（不以连字符结尾、≤63）；`AppInfo` 加 `port` / `domain` / `url`。只影响新建应用，存量与挂载的不动。CLI 升 0.5.1、指南升 9、迁移 `0011_app_domain`。**Dokploy 不出现在面向 AI 的输出里（决策 33）**：CLI 帮助 / 输出、MCP 工具描述 / 返回、内置指南、服务端透传的报错一律说「部署后台」或直接说事，CLI 不打印 `dokployApplicationId`、MCP 返回前剥掉它；部署来源枚举改 `platform | external`，错误码改 `DEPLOY_BACKEND_UNAVAILABLE` / `DEPLOY_BACKEND_UNCONFIGURED`；控制台管理员板块标题改「部署后台接入（Dokploy）」，Dokploy 这个词只留在那里和人看的文档里。CLI 升 0.5.2、指南升 10。**`eat skill export <slug>` 可把平台上任一可见 skill（含未订阅的、含内置指南）下载成普通目录**：复用既有的 `GET /api/skills/:slug`、不动服务端；与 sync 落地的区别是不写 `.eat-meta.json`（导出的是可自由编辑再 push 的工作副本，别让 sync 接管），目标目录非空必须 `--force` 且只覆盖同名文件、不清空目录。CLI 升 0.5.3、指南升 11。**推送不再自动订阅（决策 34）**：`SkillsService.push()`（CLI push / 网页创建 / 经验沉淀共用）不再把推送者订阅上去——旧行为会让「退订自己的 skill → 推个新版本 → 又被订回来」，退订意愿留不住；经验沉淀改为按 `grantedToRequester` / `grantedToHelper` 各自显式插订阅、且不再删未勾选那方的既有订阅；可见性与编辑权不受影响（`canSee`/`canManage` 按 ownerId 判），变的只是进不进 `eat sync` 范围；CLI push 后曾按返回的 `subscribed` 提示订阅命令，**决策 40 已去掉这句提示**（刻意不订阅自己 skill 的作者每推一次被劝一次，属噪音；规则留在内置指南速查表里），服务端返回的 `subscribed` 字段不动；CLI 升 0.5.9、指南内容未变。顺带修掉更新检测用例里的空串自比（指纹用例打的是 @Public 的 `/api/health`，per-user 指纹在无 authUser 时根本不下发）。CLI 升 0.5.4、指南升 12。**CLI / Skill 更新提示已就位**（决策 26：检测走响应头搭车——服务端对带 `x-eat-client` 的请求回 `x-eat-cli-version` + `x-eat-skill-version`，零额外请求；Skill 指纹是 per-user 的 sorted(`slug@version`) FNV-1a 哈希，覆盖出新版本/新增订阅/退订三类变化；提示只走 stderr、不做 TTY 判断、按版本去重、显式声明不影响本次结果；新增 `eat self-update` 与 `GET /install/version.json`；MCP 侧改挂工具返回的独立内容块；`EAT_NO_UPDATE_NOTIFIER=1` 可关。CLI 版本唯一事实源在 `packages/shared/src/version.ts`，package.json 由单测断言同步；平台指南 Skill 版本升到 5）。**控制台 UI 已从 Ant Design 全量迁移为 Tailwind CSS v4 + shadcn 风格组件**（决策 21：组件源码内置 `apps/web/src/components/ui/`，表单栈 react-hook-form、消息 sonner、搜索选择 cmdk，移除 antd/dayjs；桌面左侧分组侧边栏 + 移动端抽屉导航，表格按断点隐藏次要列做手机适配；全部 16 页面经 Playwright 桌面/移动双视口截图与交互冒烟验证。注意：项目是 React 18，ui 组件必须用 forwardRef，不能学 shadcn 官方 React 19 的 ref-as-prop 写法。决策 22：多板块页面——求助/数据库/权限申请——改页内 tabs 布局，`components/ui/tabs.tsx` + `lib/use-tab-param.ts` 同步 URL `?tab=`；低频配置收进页头按钮弹窗——求助页「可求助登记」、用户页「注册设置」，按钮带状态圆点）。**README 里有产品截图与 CLI 录屏了（决策 35）**：`scripts/demo/` 下是可复现的演示数据与截图 / 录屏工具，产物在 `docs/assets/screenshots/` 与 `docs/assets/demos/`，全集页 `docs/screenshots.md`，重跑步骤与坑见 `scripts/demo/README.md`（演示 Git 服务必须 smart HTTP、基础镜像先 `docker pull`、录屏有先后依赖、截图放最后拍）。原则是画面里的东西必须是真的：数据走平台自己的 API 写入、命令真跑一遍录。录制时顺手修了两个 CLI 问题（升 0.5.5）：`eat env pull <环境>` 在一个变量都没权限时会什么都不打印（改为回落到清单给出申请引导）、密钥扫描的候选 token 正则把 `=` 收进字符集导致 `KEY=<密钥>` 这种最常见的泄漏形式匹配不到指纹（`=` 改为只当结尾 padding）。**SKILL.md 的 frontmatter 现在按 YAML 子集解析（决策 36）**：`description: >-` 这类块标量写法此前被那版一行一匹配的正则取成 `>-` 本身，描述等于废了；解析器提到 `packages/shared/src/frontmatter.ts` 三端共用（块标量 `>`/`|` 含截断与缩进数字、单双引号跨行标量、纯标量续行、CRLF/BOM/整行注释/`...`，嵌套结构的值跳过、行内 `#` 不当注释），服务端 `SkillsService.push()` 在描述为空或只是块标量指示符时回退到正文 frontmatter（旧 CLI 推的 `>-` 推一次新版本就自动修好），控制台创建 Skill 支持粘贴整份 SKILL.md 自动回填空着的字段，经验沉淀合成 frontmatter 改用 `toYamlScalar()` 写值；`|` 保留块解析出的**多行描述**在展示端也要处理——控制台详情页的触发描述用 `whitespace-pre-line`（列表页本就是 truncate 单行，不用改）、编辑框放到 4 行，CLI 的一行一条清单（`skill list` / `ask targets`）用 `oneLine()` 折行并按显示列宽（汉字算两列）截断到 200 列、`eat skill list --full` 不截断；**存量数据靠 `pnpm db:migrate` 里的幂等订正修**（`apps/server/src/db/repair-descriptions.ts`：描述为空或只是块标量指示符的行，按当前版本 SKILL.md 正文重新解析，不动 `updated_at`）——服务端回退只在 push 时生效，线上先有的 skill 不重新部署就会一直显示 `>-`。CLI 升 0.5.7。**Skill 有捆绑模式、清单可筛选分页、订阅者可管理（决策 37）**：管理员把 skill 设为**捆绑**（`skill.bundled`，迁移 `0012_skill_bundled`）后，它对所有成员恒为已订阅、退订直接回 400 `SKILL_BUNDLED`、`eat sync` 总会带上（`relation: 'bundled'`）；**管理员自己是例外**，仍按自己的订阅记录算——这条是需求的核心，改动有效集合时别把管理员也算进去。捆绑**要求团队可见**，开捆绑与改私有两个方向都按「结果状态」校验；只有管理员能改这个开关（作者对自己的 skill 也不行）。`GET /api/skills` **破坏性地**改成分页信封 `{items,total,page,pageSize}` + `q`/`scope`/`kind` 筛选（pageSize 上限 1000，照决策 30 不留兼容层，控制台与 CLI 同步改；`Templates.tsx` 的选择器用 `pageSize=1000` 取全量）；控制台每页 20 条、可切 50/100、页码+跳页且筛选与页码同步到 URL（`lib/use-query-params.ts` + `components/pagination.tsx`），CLI 按 gh 的做法默认 100 条、`--limit` 最多 1000、**不翻页**（AI 拿到半页会当成全部下结论），配 `--search`/`--scope`/`--kind`。订阅**人数**（口径 = 有效同步人数，只算启用中的用户，人数与明细共用 `effectiveSubscribers()`）全员可见；**名单与代订阅仅管理员**（`GET/POST /api/skills/:slug/subscribers`、`DELETE …/subscribers/:userId`），代订阅拒私有 skill 与禁用用户、捆绑 skill 拒单独增减。UI 按频次分层：列表页只放搜索/筛选/订阅，捆绑开关收进详情页「编辑元信息」弹窗，订阅者名单与「添加订阅者」收在详情页下方的管理员卡片。顺带修掉「模板派生的 skill 在清单显示已订阅、详情页却显示未订阅」和窄屏下第一列 `truncate` 把表撑出横向滚动两个问题。CLI 升 0.5.8、指南升 13。**Skill 列表页已重设计为「双行清单」（决策 38）**：名称 + 触发描述排成阅读流（描述两行封顶、多行描述按原换行）、slug 退为等宽小字、元信息压成一行（作者是自己时显示「我」、相对更新时间）、订阅按钮按状态分级（未订阅描边 / 已订阅灰底绿勾悬停变「退订」/ 捆绑只读锁 / 进行中加载态）；范围筛选改成带数量的分段切换，`GET /api/skills` 信封加 `counts`（在关键词与 kind 收窄后的集合上数、scope 自身不参与）；桌面 / 移动双视口 Playwright 走查过，`skills.png` / `mobile-nav.png` 重拍。不涉及 CLI 与指南，版本号不动。**数据库分配有详情页、凭证环境与分配记录互相回指、环境清单分页筛选（决策 39）**：`/db/:id` 详情页（`GET /api/db/assignments/:id`，申请人或管理员），管理员操作与清单页共用 `pages/db-shared.tsx`；`EnvironmentInfo` 加 `source` / `dbAssignment` / `ownerEmail`（关系一直在 `db_assignment.environment_id` 上，反查暴露即可，无迁移），环境详情页头下有「查看分配」、分配详情页有「打开凭证环境」+ `eat env pull` 命令；**凭证变量默认对未授权成员完全隐藏**（`visible_without_permission=false`，存量不动）；`GET /api/envs` **破坏性地**改成分页信封 `{items,total,page,pageSize,counts}` + `q`/`source`/`page`/`pageSize`（CLI / MCP 只用 `/api/catalog`，不受影响），新增 `GET /api/envs/:slug`；控制台环境清单照 Skill 清单重做为双行清单 + 「常规 / 数据库」页签（默认常规、带数量）+ 搜索 + 分页；**更新变量时 `value` 可缺省** = 保持当前值、版本不递增（翻转敏感标记时把现值搬到另一列；新增缺省值仍 400）——此前给敏感变量改可见性会因为值必填而改不了；**Owner / 管理员可在控制台点眼睛查看敏感值**（走正式拉取接口、照常落 `secret.read` 审计）；环境详情页「读取授权」上方加 Owner 卡片（姓名 / 邮箱 / 三条能力 / 按身份补一句话）。不涉及 CLI 与指南，版本号不动。**求助对话可以删掉自己写的那条回复（决策 41）**：`DELETE /api/help-requests/:id/messages/:messageId`，回复者本人或管理员可删（管理员本就能删整条求助，这里只是粒度更细；求助已沉淀为经验时整条删不掉、单条仍可删）；删完按剩余消息回推状态——最后一条来自被求助者→`answered`，否则→`open`（一条不剩也回 `open`），`resolved`/`closed` 是终态不回退；**只在控制台开口子，CLI / MCP 不加命令**（不给 AI 一个悄悄抹掉自己发言的工具，AI 侧误发仍是 `delete_help_request` 删整条）；不推 webhook、落审计 `help.reply_deleted`（只记 messageId/senderId 不抄正文），乱写的 messageId 用 `isFullId()` 挡成 404 而不是 500。不涉及 CLI 与指南，版本号不动。**求助清单加了「待回复 / 全部」筛选（决策 42）**：与「找我的 / 我发起的」页签是两个正交维度，两个页签共用同一个值、**默认「待回复」**；「待回复」= 还等着某一方回应（`open` + `answered`），刻意包含 `answered`——「我发起的」页签角标数的就是它，只认 `open` 会出现「角标说有 2 条、点进去一条也看不到」；UI 上两个维度**必须长得不一样**（`TabsList` 与 `Segmented` 本来是同一套实心轨道样式），页签保持实心、筛选用新加的 `Segmented variant="outline"` 描边轨道，桌面一行分列左右、窄屏堆叠；页签角标 = 需要我出手的条数，分段上的小字 = 切过去有几条（按当前页签算）；筛选与页签都同步到 URL（`?status=` / `?tab=`，本页 `useTabParam` 换成 `use-query-params`）；纯前端过滤（两个清单接口本就一次取 100 条），不动服务端、不涉及 CLI / MCP / 指南，版本号不动。演示数据补了一条「吴敏 → 孙浩」的待回复求助（否则默认筛选下 `help.png` 是空的）、`capture-web.mjs` 的两张详情图改挂 `?status=all`、`help.png` 重拍。剩余待办：真实联调（**Dokploy 已可在云端会话内用 `scripts/dev-dokploy.sh` 自建真机实例验证，`DokployClient` 的连通性/清单/状态/部署四条路径与错误路径都对着 v0.30.4 跑通**；只剩 AI 三参数待用户提供）、正式部署（Dockerfile 与 docs/deployment.md 已就绪，镜像布局在容器内做过等效验证——pnpm deploy --legacy 产物 + 迁移/种子编译入口 + SPA 托管 + CLI 产物 `/app/cli/dist` 全通，真实 docker build 需在有 Docker 的机器上做）、MySQL 自动建库（暂缓）。
 
 **已知环境行为**：云端容器会不定期回收后台进程（postgres、node server 都可能消失，无 OOM、日志无 shutdown 记录）——重跑 `scripts/dev-db.sh start` 和重启 server 即可，不必排查。
 

diff --git a/docs/product-design.md b/docs/product-design.md
@@ -276,6 +276,7 @@ stateDiagram-v2
 - AI 侧通过 `get_help_request(id)` 读取最新回复；CLI 也可 `eat ask show <id>`；
 - **删除求助**：求助者本人或管理员可删除求助（连带对话记录，不可恢复），控制台 / `eat ask delete` / MCP `delete_help_request` 均可操作；**已沉淀为经验的求助不可删除**（经验库引用该求助）。
 - **删除单条回复**（决策 41）：`DELETE /api/help-requests/:id/messages/:messageId`，回复者本人或管理员可删，控制台对话区每条自己写的消息旁有删除入口。删完按剩余消息回推状态——最后一条来自被求助者就是 `answered`，否则回 `open`（一条不剩也回 `open`）；`resolved` / `closed` 是人工拍板的终态，不因删消息回退。求助已沉淀为经验也照删不误（经验是独立的 Skill 内容，不引用消息行）。
+- **控制台清单的两个维度**（决策 42）：**方向**（找我的 / 我发起的）走页签，**进展**（待回复 / 全部）走状态筛选，两个页签共用同一个筛选值、**默认「待回复」**。「待回复」= 对话还等着某一方回应（`open` + `answered`），与之相对的 `resolved` / `closed` 是不再需要任何人回应的终态。两个维度同步到 URL 的 `?tab=` / `?status=`（等于默认值的不写进去），纯前端过滤，CLI / MCP 不受影响。
 
 ### 3.5.4 防骚扰
 
@@ -712,3 +713,4 @@ easy-agent-team/
 | 39 | 数据库分配详情页 + 凭证环境与分配记录互相回指 + 凭证变量默认隐藏 + 环境清单分页筛选与 Owner 卡片 | **用户视角的几个断点一起补**：① 「全部分配」清单里一行放不下的东西（实例地址、账号、处理人与时间、失败原因、凭证在哪）没有地方看——新增分配详情页 `/db/:id`（`GET /api/db/assignments/:id`，申请人或管理员可看，已删除的记录直接访问仍可见、只是不再进清单），管理员操作按钮（批准 / 驳回 / 禁用 / 恢复 / 删除）与清单页共用 `apps/web/src/pages/db-shared.tsx`。② 凭证环境与分配记录之间**看不出关系**：关系其实一直在 `db_assignment.environment_id` 上，只是没暴露——`EnvironmentInfo` 加 `source`（`manual` / `db_assignment`）与 `dbAssignment {id, dbName, instanceName, status}`（反查一次拿整张映射，分配记录已不存在时为 null），`DbAssignmentInfo` 加 `environmentId` / `instanceHost` / `instancePort` / `decidedByName` / `updatedAt`；环境详情页头下一行「数据库分配自动生成 · 库 · 实例 · 状态 · 查看分配」，分配详情页「连接凭证」卡片直达环境并给出 `eat env pull` 命令；不加新列、不做迁移。③ 凭证变量**默认对未授权成员完全隐藏**（建变量时 `visible_without_permission=false`）：这是某个人的项目库凭证，不是团队公共配置，出现在别人的清单里只会引来无意义的申请；Owner 想共享时授权整个环境即可，也可以手动打开可见。存量凭证环境不动。④ 环境清单页照 Skill 清单（决策 38）重做：`GET /api/envs` **破坏性地**改成分页信封 `{items,total,page,pageSize,counts}` + `q`（匹配 slug / 名称 / 备注 / 关联库名）/ `source` / `page` / `pageSize`（默认 20、上限 1000，照决策 30 不留兼容层；控制台、e2e、演示种子同步改；CLI / MCP 只用 `/api/catalog`，其内部改走不分页的 `loadEnvironments()`，不受影响）；新增 `GET /api/envs/:slug` 给详情页与选择器用——清单已分页，靠翻清单找一条不可靠；页签「常规 / 数据库」默认常规、带数量（关键词已应用、source 不参与计数，与决策 38 的 scope 计数同一思路），搜索 300ms 节流落 URL，分页复用 `components/pagination.tsx`；行结构：名称 + slug 小字 → 备注两行封顶 → 元信息（Owner「我」· 相对创建时间），右侧只放变量数；数据库页签的行多一行「库 · 实例 · 状态 · 分配详情」。⑤ **更新变量时值可缺省**（`upsertVariableSchema.value` 改 optional）：此前想给敏感变量改可见性会因为值必填而改不了，而敏感值控制台本就拿不到。缺省 = 保持当前值、**版本不递增**（版本只跟着值走）；翻转敏感标记时把现值解出来搬到另一列；新增变量缺省值仍拒（400）。控制台更新框的值不再必填、留空即保持，非敏感变量带出的旧值没改也按没改处理。⑥ **有管理权者可在控制台查看敏感值**：值列打码旁加「眼睛」，点了走正式的 `POST /api/envs/:slug/values` 拉取——服务端照常落 `secret.read` 审计，与终端 `eat env pull` 一视同仁，不另开后门；限 Owner / 管理员（与「更新」按钮同一批人），被授权的普通成员仍走 CLI / MCP 拉取。⑦ 环境详情页在「读取授权」上方加 **Owner 卡片**：头像首字 + 姓名 + 邮箱 + 「环境 Owner」徽标，一句话说清「Owner 对整个环境拥有完整的读写权限，不需要出现在授权名单里；管理员同等」，下面三条能力勾选（读全部值含敏感值 / 增删改变量 / 授予撤销授权）；数据库凭证环境补一句「申请人即 Owner」，无管理权者补一句「怎么申请」，管理员非 Owner 时补一句「你以管理员身份查看」。为此 `EnvironmentInfo` 加 `ownerEmail`（用户清单本就对登录用户开放 email）。顺带：删除数据库凭证环境的确认文案改成提醒「密码无法找回，回收库请去数据库页删分配记录」。不涉及 CLI 与内置指南，版本号不动。 |
 | 40 | `eat skill push` 不再提示「你还没订阅它」 | **推送成功后只报推送结果，不再逐次劝订阅。** 决策 34 给 CLI 加的那句「你自己还没订阅它（推送不会自动订阅）。想让它随 `eat sync` 落到本地: `eat skill subscribe <slug>`」，对**刻意不订阅自己 skill** 的作者（写给别人用、或本地已有工作副本）每推一次就重复一次，属于噪音；「推送不建立订阅」这条规则本身留在内置指南的命令速查表里（`eat skill push` 那行）与本文 §3.2.2，不靠每次推送重复。服务端 `POST /api/skills/push` 返回体里的 `subscribed` 字段不动（`SkillDetail` 通用字段，控制台也在用）。CLI 升 0.5.9；内置指南内容未变，版本不动（§3.2.2） |
 | 41 | 求助对话可以删掉自己写的那条回复 | **回复发出去之后要能撤回**：手滑发半句、贴错内容、把密钥贴进了对话，此前唯一的补救是把**整条求助**删掉（还得是求助者本人、且没沉淀过经验），代价太大。新增 `DELETE /api/help-requests/:id/messages/:messageId`，**回复者本人或管理员**可删（与「删除求助」同一套「本人或管理员」口径；管理员本就能删整条求助、这里只是给了粒度更细的手段，且求助已沉淀时整条删不掉、单条还能删）。两个设计点：① **状态按剩余消息回推**——删掉被求助者的唯一回复后不该还挂着「已回复」，规则是「最后一条来自被求助者 → `answered`，否则 → `open`（一条不剩也回 `open`）」，而 `resolved` / `closed` 是人工拍板的终态、不因删消息回退；② 只在**控制台**开口子（用户原话「网站上应该支持」），CLI / MCP 不加命令——AI 侧误发的补救仍是 `delete_help_request` 删整条，避免给 AI 一个悄悄抹掉自己发言的工具。删除不推 webhook（对方已经收到过通知，再推一条「我删了」是噪音），落审计 `help.reply_deleted`（只记 messageId / senderId，不抄正文）。路径参数在进 uuid 列比较前用 `isFullId()` 挡一道，乱写的 messageId 回 404 而不是 500。不涉及 CLI 与内置指南，版本号不动（§3.5.3） |
+| 42 | 求助清单加「待回复 / 全部」筛选，与页签正交 | **求助页此前只有「找我的 / 我发起的」一个维度，已解决、已关闭的历史和当下要处理的混在同一张表里**，人越用越难扫。加一维**进展**筛选，两个页签共用同一个值、默认选「待回复」。① **口径**：「待回复」= 对话**还等着某一方回应**——`open` 等被求助者回复、`answered` 等求助者确认或追问；相对的 `resolved` / `closed` 是不再需要任何人回应的终态。刻意**没有**把 `answered` 排除在外：页签角标「我发起的」数的正是 `answered`（有新回复待我确认），「待回复」若只认 `open`，就会出现「角标说有 2 条、点进去一条也看不到」的自相矛盾。② **两个维度必须长得不一样**，否则会被当成同一组开关（`TabsList` 与原来的 `Segmented` 恰好是同一套实心轨道样式）：页签保持实心轨道（`bg-muted` + 白色滑块 = 导航），筛选改用新加的 `Segmented variant="outline"`（描边轨道 + 灰色滑块 = 筛选）；桌面同处一行、页签靠左筛选靠右与卡片右缘对齐，窄屏换行堆叠。③ **两组数字各司其职**：页签角标 = 需要我出手的条数（找我的：等我回复；我发起的：有新回复待我确认），分段上的小字 = 「切过去会有几条」（按**当前页签**算，与决策 38 的 `counts` 同一口径），所以切页签数字变、切筛选数字不变。④ **空状态分两种**：全被筛掉时说「没有待回复的求助，N 条已了结的记录都在「全部」里」并给「查看全部」按钮（给出口），真的一条都没有时才讲怎么开始（讲入门）。⑤ 筛选与页签都同步到 URL（`?status=` / `?tab=`，等于默认值的不写进去），本页原来的 `useTabParam` 换成 `lib/use-query-params.ts`，两个参数一套 hook。⑥ **纯前端过滤**：`/api/help-requests/inbox` 与 `/mine` 本就一次取 100 条，不动服务端、不加接口参数，CLI / MCP 与内置指南都不涉及，版本号不动。⑦ 演示数据补一条「吴敏 → 孙浩」的待回复求助（否则默认筛选下 `help.png` 是空的），`capture-web.mjs` 的 help-detail / mobile-help-detail 改挂 `?status=all` 才点得到那条已解决的，`docs/assets/screenshots/help.png` 重拍；桌面 1440 / 移动 390 双视口 Playwright 走查（默认筛选、切筛选、切页签保持筛选、深链还原、筛空的出口按钮，无横向溢出、无控制台报错）（§3.5.3） |
